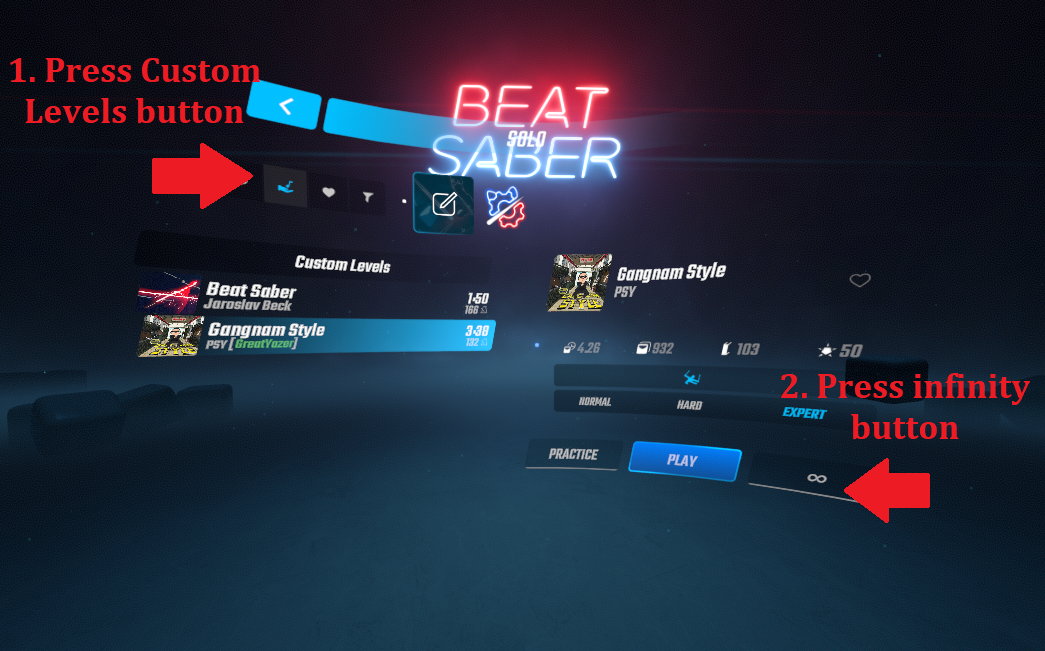
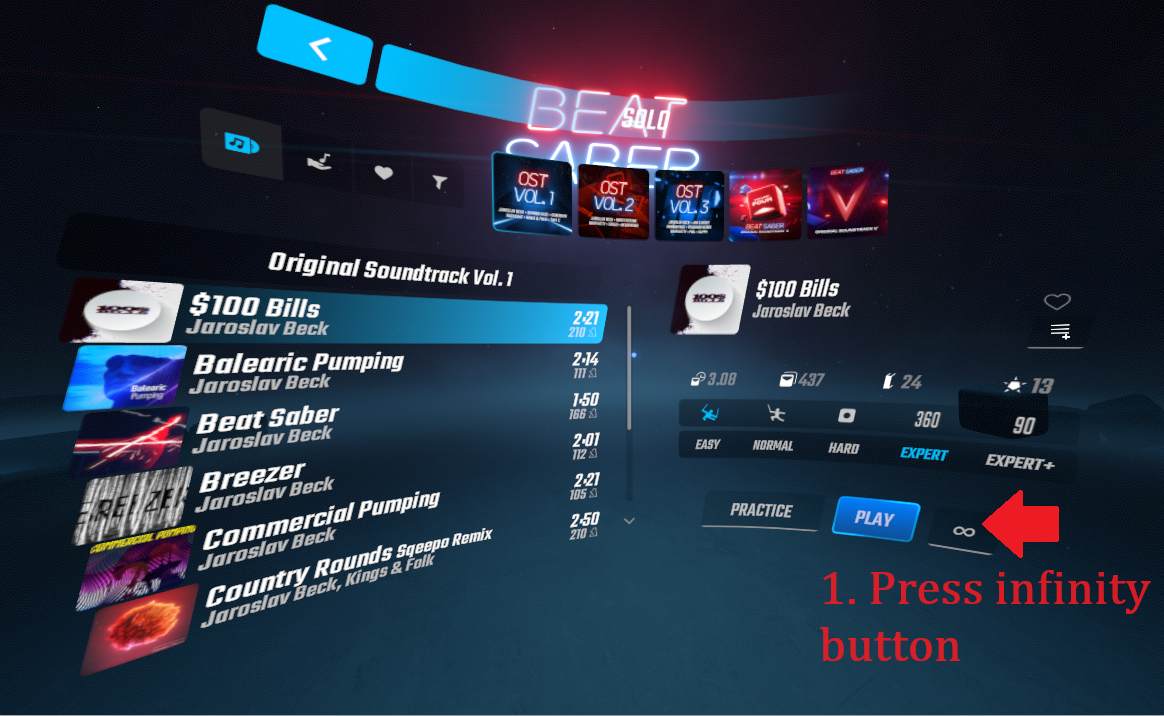
Update README to cover newly supported songs

diff --git a/README.md b/README.md
@@ -7,29 +7,38 @@ This mod is both inspired by the [The Infinite Jukebox](https://musicmachinery.c
 ## How to Play
 
 1. Install the Infinite Beat Saber mod using [ModAssistant](https://github.com/Assistant/ModAssistant/) or a mechanism of your choosing. If you haven't installed any Beat Saber mods before, you might want to check out the [PC Modding page on the Beat Saber Modding Group Wiki](https://bsmg.wiki/pc-modding.html). (If you prefer manual installation, see the [Manual Installation](./docs/manual-installation.md) doc.)
-2. Launch Beat Saber.
-3. Press the "Solo" button.
-4. Press the "Custom Levels" button &mdash; (1) in the screenshot.
-5. Select one of the [currently supported levels](#currently-supported-levels). Only the Standard, One Saber, and No Arrows modes are currently supported.
-6. Press the button with the infinity symbol on it &mdash; (2) in the screenshot.
-7. Play the song for as long as you like &mdash; it never ends!
+1. Launch Beat Saber.
+1. Press the "Solo" button.
+1. Select one of the [44 currently supported levels](#currently-supported-levels). Only the Standard, One Saber, and No Arrows modes are currently supported.
+1. Press the button with the infinity symbol on it &mdash; (1) in the screenshot.
+1. Play the song for as long as you like &mdash; it never ends!
 
 Here's a screenshot highlighting the relevant UI:
 
 ![Screenshot highlighting the Custom Levels and infinity buttons](./docs/interface-intro.png)
 
-If you don't see the infinity button, it could mean one of these things:
-1. The selected song isn't currently supported.
-2. The selected mode isn't currently supported &mdash; only the Standard, One Saber, and No Arrows modes are currently supported.
-3. The Infinite Beat Saber mod isn't installed.
+If the infinity button is disabled, it means one of these things:
+1. The selected *level* isn't currently supported.
+1. The selected *mode* isn't currently supported &mdash; only the Standard, One Saber, and No Arrows modes are currently supported.
+
+If you hover over the infinity button, it'll pop up some text describing which case it is.
 
 ## Currently Supported Levels
 
-Currently only these custom levels are supported:
+All but 3 built-in levels are supported (excluding DLC). In other words, these level packs are supported:
+- Original Soundtrack Volumes 1 through 5
+- Extras
+- Camellia Music Pack
+
+These are the 3 unsupported levels:
+- I Wanna Be A Machine by The Living Tombstone. Mapped by ConnorJC ([Issue #1](https://github.com/rigdern/InfiniteBeatSaber/issues/1))
+- One Hope ft. David Binney by KNOWER ([Issue #2](https://github.com/rigdern/InfiniteBeatSaber/issues/2))
+- Light it up by Camellia ([Issue #3](https://github.com/rigdern/InfiniteBeatSaber/issues/3))
+
+Additionally, these custom levels are supported:
 - [Gangnam Style by PSY. Mapped by GreatYazer](https://bsaber.com/songs/141/)
 - Beat Saber by Jaroslav Beck
-
-Built-in levels aren't currently supported.
+- Magic ft. Meredith Bull by Jaroslav Beck. Mapped by Freeek
 
 ## How to Add Additional Levels
 
